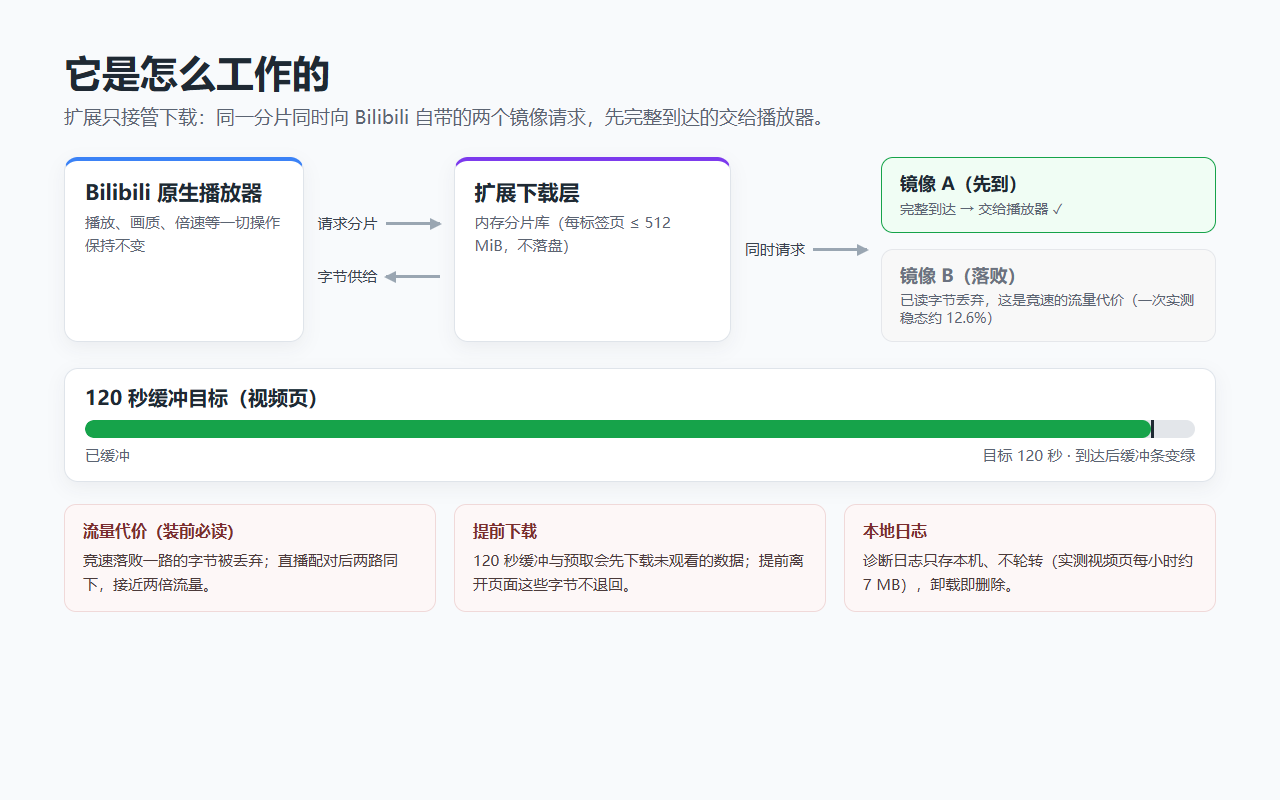
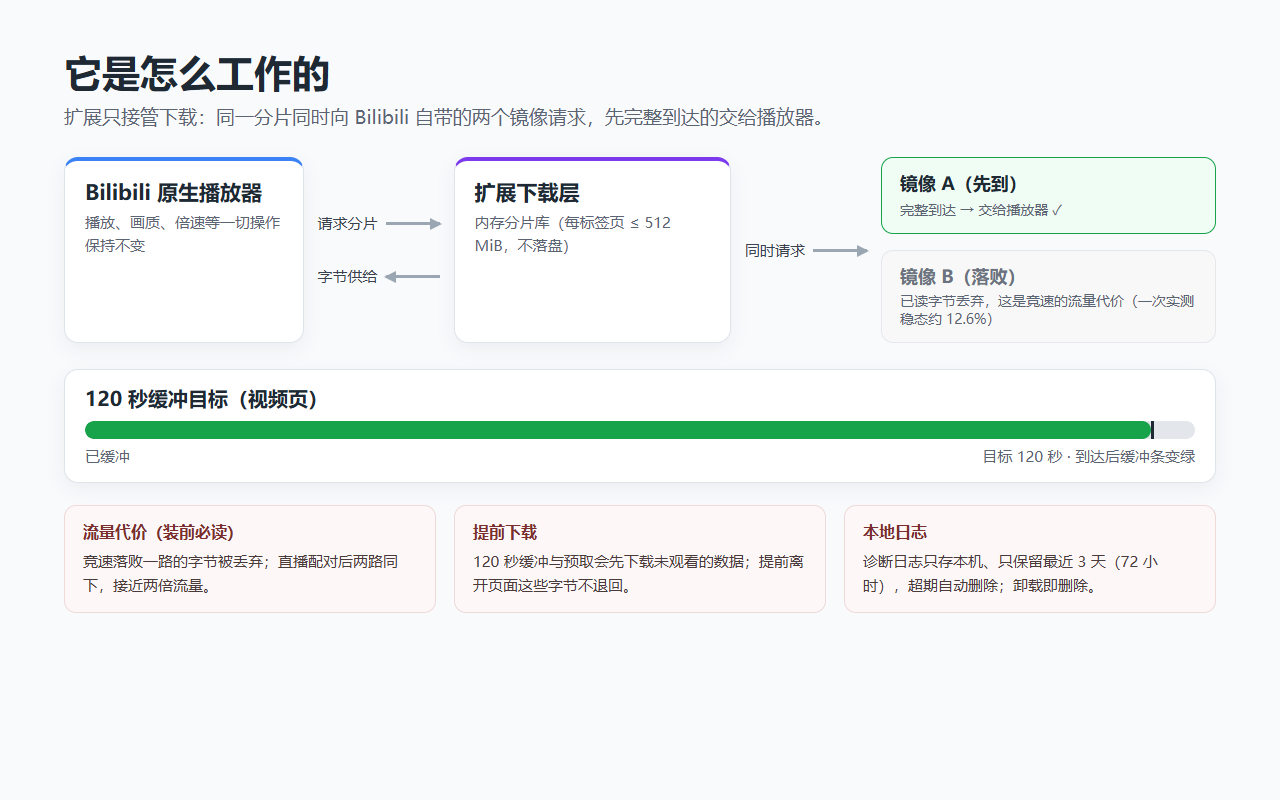
Rewrite the log-retention and switch documents for the store release
Why: GOAL.md owned the old never-delete log rule and every user-facing text
described a single video-only switch; both changed with the live switch and
the 3-day TTL.

- GOAL.md: the diagnostic-log section now states the 3-day retention, that
  deletion is by each record's own time only, and that pruning never blocks
  playback or log writes; field limits, console-first, export, and no-upload
  rules untouched
- README.md / README.en.md: disk cost bounded to the last 3 days, two
  switches in the popup and FAQ, download-layer bullet for the switch
  gating and the closed early-request window
- PRIVACY.md: retention 3 days then automatic deletion; two preference
  switches (both languages)
- store listings: switches paragraph, honest unlimitedStorage justification
  for a 3-day window, permission table rows
- store/README.md: resolved open items removed, review answer rewritten;
  popup screenshots 01/02 marked to recapture
- diagram.html: the local-log card states the 3-day retention; re-rendered
  at 1280x800 with the Windows Chrome headless CLI

diff --git a/store/images/src/diagram.html b/store/images/src/diagram.html
@@ -89,7 +89,7 @@
   <div class="costs">
     <div class="cost"><b>流量代价（装前必读）</b>竞速落败一路的字节被丢弃；直播配对后两路同下，接近两倍流量。</div>
     <div class="cost"><b>提前下载</b>120 秒缓冲与预取会先下载未观看的数据；提前离开页面这些字节不退回。</div>
-    <div class="cost"><b>本地日志</b>诊断日志只存本机、不轮转（实测视频页每小时约 7 MB），卸载即删除。</div>
+    <div class="cost"><b>本地日志</b>诊断日志只存本机、只保留最近 3 天（72 小时），超期自动删除；卸载即删除。</div>
   </div>
 </body>
 </html>

diff --git a/README.md b/README.md
@@ -40,14 +40,14 @@
 - **直播接近两倍流量**：配对后两路一直同时下载，流量接近单路的两倍。
 - **提前下载**：120 秒缓冲目标与预取会把还没看到的数据先下载；提前离开视频页，这些字节就白下了。
 - **内存**：每个标签页的媒体缓存最多约 512 MiB。
-- **磁盘**：本地诊断日志按设计不轮转、不设上限，随使用持续增长（开发者自用浏览器实测：视频页每打开 1 小时约 7 MB）；卸载扩展即全部删除。
-- **开关**：弹窗里的「视频增强」开关只作用于视频页（刷新后生效）；直播页的接管今天没有单独开关；不想承担直播的双倍流量，请在 chrome://extensions 停用本扩展。
+- **磁盘**：本地诊断日志只保留最近 3 天（72 小时），超期记录自动删除；实测视频页每打开 1 小时约产生 7 MB，因此占用大致以最近 3 天的用量为上界；卸载扩展即全部删除。
+- **开关**：弹窗里有两个开关，都在刷新页面后生效：「视频增强」只作用于视频页，「直播增强」只作用于直播页；不想承担直播的双倍流量，把「直播增强」关掉即可，视频增强不受影响。
 
 ![视频页弹窗截图](store/images/screenshot-01-popup-video.png)
 
 ## 弹窗（popup）怎么读
 
-弹窗只读、只显示观测事实，不影响播放、不上传：
+弹窗顶部有两个常驻开关（改动在刷新页面后生效）：「视频增强」控制视频页、「直播增强」控制直播页，各自独立。弹窗其余部分只读、只显示观测事实，不影响播放、不上传：
 
 - **缓冲**：一条缓冲条和「已缓冲 N 秒 / 目标 120 秒」。数值是覆盖当前播放点的连续可播放前向秒数，不是整段视频的缓冲；条到头（120 秒）变绿。
 - **120 秒申请状态**：向播放器申请 120 秒缓存的结果，分为已生效 / 等待生效 / 播放器不支持 / 申请失败四种。
@@ -86,7 +86,7 @@ Chrome 对后台标签页停止视频解码（background video track optimizatio
 说明带宽跟不上当前码率。扩展能做的是把带宽花在播放器真正需要的下载上，它不能让缓冲在慢线路上停止流失。
 
 **直播能单独关掉吗？**
-今天没有直播单独开关。不想承担直播双倍流量，请在 chrome://extensions 停用整个扩展。
+可以。弹窗里的「直播增强」开关只控制直播页（刷新后生效）：关闭后播放器按原样自己下载，扩展不接管、不竞速，视频页的增强不受影响。
 
 **会动我的播放操作吗？**
 不会。播放、暂停、拖动、倍速、画质、音量与轨道选择仍由你和播放器决定；弹窗只读。
@@ -109,7 +109,8 @@ Chrome 对后台标签页停止视频解码（background video track optimizatio
 ## 当前行为
 
 - `/video/*` 与 `/list/watchlater*` 使用同一视频增强。扩展拦截视频页媒体分片请求，命中时从内存回应，未命中时由扩展取回覆盖请求的完整分片、入库后再回应；分片只在实例内存中保存，离开视频路由或页面关闭即释放，不落盘；仍只对当前原生播放器尝试一次 120 秒稳定缓存目标，并只读显示覆盖当前播放点的 `video.buffered` 连续区间。不接管播放，不调用 `play()`/`pause()`，不写播放位置、倍速、画质、音量、静音、source，也不改变播放器的清晰度、seek、播放暂停或音视频轨决策。
-- popup 只显示视频增强开关和只读观测事实，不影响播放，不上传。
+- popup 常驻显示「视频增强」「直播增强」两个开关和只读观测事实，不影响播放，不上传。每个开关只作用于自己的页面类型：www.bilibili.com 读视频开关，live.bilibili.com 读直播开关。
+- 开发诊断日志只保留最近 3 天（72 小时）：超过 72 小时的事件按自身 `wallTime` 由后台清理删除；session 在自身 `startedAt` 超过 72 小时且名下已无剩余事件时一并删除。清理由 service worker 在启动时和日志批次写入后触发，用 `chrome.storage.session` 节流到至多每小时一次，分小批 readwrite 事务进行，不长期占用 events 存储；失败向 console 全量报告。导出在开始时固定 maxEventId 快照，范围内的记录被清理时分页原样跳过，导出照常完成（`src/diagnostics/prune.js`、`src/diagnostics/worker.js`、`src/diagnostics/export.js`）。
 
 ## 浏览器后台行为
 
@@ -123,6 +124,7 @@ Chrome 对后台标签页停止视频解码（background video track optimizatio
 
 ## 下载层
 
+- 接管受弹窗开关控制：www.bilibili.com 的分片接管只看「视频增强」，live.bilibili.com 的流接管只看「直播增强」，改动在刷新页面后生效。下载层默认让路：页面加载后到内容脚本读到开关值并写入接管标记之前，任何媒体请求都不接管；开关关闭时永远停在让路。让路中的媒体请求由播放器原生下载，不竞速、不缓存，也不产生 `bank.serve`/`bank.fetch.chunk` 记录；页面与开关状态照常进入诊断日志。因此开关开启时，加载最初几毫秒内的个别请求可能由播放器原生下载，这是关闭「先读开关再接管」窗口的代价。
 - 识别为媒体分片且带闭合单段 `Range` 的请求一律由下载层拦截。命中时从内存中的完整分片切片回应，未命中时由扩展用同一 URL 和凭据取回覆盖范围的完整分片，入库后再回应播放器的原始 Range；播放器不会为这类媒体分片另行发起网络请求。非媒体请求、缺少 `Range`、非闭合 `Range`、同步 XHR、直播页非 FLV 媒体请求（`live_non_flv`），以及下载层自身的 `internal_fallback`/`internal_error` 路径仍按原样放行，并由 `bank.serve` 记录 `pass` 和原因（包括 `range_missing`、`range_not_closed`、`sync_xhr`、`live_non_flv`）。`bank.serve` 的命中事件记录 `mirror` 与 `durationMs`，`bank.fetch.chunk` 记录 `mirror`。
 - 直播页（`live.bilibili.com`）只做下载接管与双路竞速，不做预拉、不设缓存目标。播放器在直播页发起的 `.flv` 长连接请求由扩展接管：首个此类请求到达时按需同步解析页面内嵌 `playurl_info`，并观察播放器自身的直播 `getRoomPlayInfo` 流量补充地址簿；只配同 cluster 主备两路（如 07 对 07b），跨 cluster 不配，地址不合成、不猜，URL 签名 `expires` 到期按地址失效处理。双腿 reader 并发累积，拼接窗口与前缀门窗口同按 `BANK_CONFIG.chunkBytes`（1 MiB）分窗：共同前缀比对一致才进入竞速交付，先达字节供给，败腿已读字节按既有浪费口径记录；竞速中重叠窗口持续比对，晚到不一致保领先腿、撤销另一腿；门期备腿停滞按单腿死处理，单腿死后余腿独跑、不重连。查无配对或前缀不一致时永久降级为播放器所名 URL 单腿接管（不制造播放故障）。双腿全灭、或签名到期且无新地址时显式失败，不静默退回原生。直播流事件按偏移分窗复用 `bank.fetch.chunk`（`chunkIndex` 为偏移对 `chunkBytes` 下取整，`slot` 标腿）与 `bank.serve`（`result`/`reason` 增 `live_stream`、`live_stream_unpaired`、`live_non_flv`），拼接裁决记 `live.stream.stitch`（`streamPath` 为去 query 的流路径、`bytesChecked` 为累计比对字节数、`mismatch`、`phase` 为 `prefix` 或 `stream`）。
 - 预取窗口按媒体资源分别锚定在仍未供数完成的播放器请求所需的最小块号；没有在途请求时使用最近一次播放器请求的起始块。窗口最多覆盖 48 个块，并发上限 4，只选择窗口内尚未入库且连续失败未达 3 次的前四个块。失败块下一轮自然重新进入窗口，达到上限后向需要它的播放器请求报告错误。
@@ -136,7 +138,7 @@ Chrome 对后台标签页停止视频解码（background video track optimizatio
 - popup 面向普通观众，只讲三件事：缓冲、下载线路、连接时间。视频页显示一条缓冲条和「已缓冲 N 秒 / 目标 120 秒」，数值是覆盖当前播放点的连续可播放前向秒数（`src/extension/popup.js:62-77`、`src/extension/popup-view.js`、`src/extension/readouts.js`）；下方一行报告向播放器申请 120 秒缓存的结果：已生效、等待生效、播放器不支持，或申请失败（`src/ui/panel.js`、`src/vod/controller.js` 的 `updateStatus`）。
 - popup 的「下载线路」卡片按镜像列出本次播放实际用到的每条 CDN 线路（通常两条），每条给一个健康状况词（正常、有停滞、有错误、尚无数据）和连接时间（「通常 X 毫秒 · 慢时 Y 毫秒」，来自 `logs:cdn-summary` 的每镜像 TTFB P50/P90）（`src/extension/popup-view.js`、`src/diagnostics/cdn.js`、`src/diagnostics/worker.js`）。线路名是镜像主机名的可读短名。
 - 直播页（live.bilibili.com）同一风格：同样的「下载线路」卡片，加一行直播接管状态（正在按两条线路竞速下载 / 单路接管（无可用备用线路）/ 接管请求失败 / 未接管（未发现 FLV 直播流）/ 等待直播数据），由内容侧折叠 `bank.serve` 事件得出；直播不设缓冲目标，popup 不显示缓冲条（`src/extension/popup-live.js`、`src/extension/popup-view.js`）。popup 的路由判定优先使用内容侧自报的 `routeKind`，因为 popup 没有 `tabs` 权限、读不到标签页地址（`src/diagnostics/client.js` 的 `getStatus`、`src/extension/readouts.js`）。
-- popup 面板只读，不影响播放、不上传；内容侧错误只在存在时以一句人话显示，非 Bilibili 标签页或没有内容脚本的标签页只显示一句友好提示（`src/extension/popup.js`、`src/extension/popup-view.js`）。popup 底部保留「打开开发日志」入口，日志页本身不变。
+- popup 面板只读，不影响播放、不上传；内容侧错误只在存在时以一句人话显示，非 Bilibili 标签页或没有内容脚本的标签页只显示一句友好提示（`src/extension/popup.js`、`src/extension/popup-view.js`）。popup 底部保留「打开开发日志」入口。日志页开头写明保留期限：日志只保留最近 3 天（72 小时），更早的记录自动删除。
 - 所有 `media.*` 事件都附带同一帧周期聚合的 `frameTiming`，包括 presentedTotal、maxFrameGapMs、processingMs、displayLead、mediaStep 与 append 相关指标（`src/diagnostics/media.js`、`src/diagnostics/privacy.js:195-212`）。这些细节只进开发日志；popup 不再展示 readyState、networkState、轨道 ranges、库存计数或持久化状态等开发读数。
 - 下载层库存只列出本次播放实际参与的分轨（`resourceState` 或 `chunks` 中出现过的资源），不展示地址簿里的所有表示（`src/bank/inventory.js:103-107`）；它作为 `bank.inventory` 诊断事件进入开发日志。
 - 日志页提供 CDN 竞速面板，按镜像统计竞速进入、胜出、TTFB P50/P90、停滞与交付字节，并给出配对覆盖率与浪费字节率（`src/diagnostics/logs.js`、`src/diagnostics/worker.js`）。

diff --git a/store/listing.en.md b/store/listing.en.md
@@ -34,11 +34,11 @@ draft is the ready-to-paste text for a future locale-specific listing once `_loc
   It uses no third-party addresses and never rewrites or substitutes Bilibili's addresses. It does not take over playback: play, pause, seeking, rate, quality, volume, and track choices stay with you and Bilibili's player.
 
   The cost — please weigh against your data plan
-  Video: the bytes the losing leg already downloaded are discarded — about 12.6% steady-state waste in one real run (it varies per session; the CDN racing panel on the extension's log page shows the session's own wasted-byte ratio). The 120-second buffer and prefetch download ahead, so leaving a video early downloads more unwatched data than the native player would. Live: once paired, both legs keep downloading at once — close to twice the stream's traffic. Memory: up to about 512 MiB of media cache per tab. Disk: the local diagnostic log is never rotated and grows with use (measured on the developer's own browser: about 7 MB per hour a video page is open); uninstalling deletes it.
-  Switch: the popup's "video enhancement" switch applies to video pages only (takes effect after a reload). Live takeover has no separate switch; to avoid the doubled live traffic, disable the extension in chrome://extensions.
+  Video: the bytes the losing leg already downloaded are discarded — about 12.6% steady-state waste in one real run (it varies per session; the CDN racing panel on the extension's log page shows the session's own wasted-byte ratio). The 120-second buffer and prefetch download ahead, so leaving a video early downloads more unwatched data than the native player would. Live: once paired, both legs keep downloading at once — close to twice the stream's traffic. Memory: up to about 512 MiB of media cache per tab. Disk: the local diagnostic log keeps only the last 3 days (72 hours); older records are deleted automatically (measured on the developer's own browser: about 7 MB per hour a video page is open, so use is roughly bounded by the last 3 days); uninstalling deletes everything.
+  Switches: the popup carries two switches, both effective after a reload. "Video enhancement" applies to video pages only and "live enhancement" to live pages. To avoid the doubled live traffic, turn off the live switch: the player then downloads natively, with no takeover and no racing on live pages, while video enhancement is unaffected.
 
   Data
-  Media segments stay in memory. The development diagnostic log lives only in the extension's local IndexedDB: it records the path of each Bilibili page, video identifiers, media URLs without parameters, timings and results of media requests, player events (play, pause, seeking, and so on), and buffer state. It stores no cookies, account data, titles, page text, chat, signed parameters, or audio/video bytes. No upload, no telemetry; export happens only when you pick a file. Permissions are only storage (one switch) and unlimitedStorage (an unrotated local log); no host_permissions. Fully open source: https://github.com/chnlich/smooth-bilibili-chrome-plugin
+  Media segments stay in memory. The development diagnostic log lives only in the extension's local IndexedDB: it records the path of each Bilibili page, video identifiers, media URLs without parameters, timings and results of media requests, player events (play, pause, seeking, and so on), and buffer state. It stores no cookies, account data, titles, page text, chat, signed parameters, or audio/video bytes. No upload, no telemetry; export happens only when you pick a file. Permissions are only storage (two switches: video enhancement and live enhancement) and unlimitedStorage (writing the local log inside its 3-day window); no host_permissions. Fully open source: https://github.com/chnlich/smooth-bilibili-chrome-plugin
   ```
 
 - **Category**: Entertainment. The old "Productivity" group was split up in the mid-2023 category
@@ -61,8 +61,8 @@ draft is the ready-to-paste text for a future locale-specific listing once `_loc
 
   | Dashboard item | Paste text |
   |---|---|
-  | `storage` | Stores exactly one user switch (video-page enhancement on/off) in chrome.storage.local so the popup preference survives restarts. Nothing else is stored. |
-  | `unlimitedStorage` | The development diagnostic log is append-only by design and never rotated or capped (see GOAL.md in the repository); it lives in the extension's own origin IndexedDB and grows with use (measured on the developer's own browser: about 7 MB per hour a video page is open). unlimitedStorage removes the browser's default storage quota so appends do not start failing at the quota. The log stays on the device; the user can view or export it on the log page, and uninstalling deletes everything. |
+  | `storage` | Stores exactly two user switches (video enhancement and live enhancement, each on/off) in chrome.storage.local so the popup preferences survive restarts. Nothing else is stored. |
+  | `unlimitedStorage` | The development diagnostic log lives in the extension's own origin IndexedDB and keeps only the last 3 days (72 hours); older records are deleted automatically, and within the window the log is append-only and not capped by count or size (see GOAL.md in the repository). Measured on the developer's own browser, an open video page adds about 7 MB per hour, so even a 3-day window can exceed the browser's default storage quota; unlimitedStorage removes that quota so writes inside the window do not start failing at it. The log stays on the device; the user can view or export it on the log page, and uninstalling deletes everything. |
   | Content script `https://www.bilibili.com/*` | Download takeover starts only on video routes (/video/* and /list/watchlater*): it intercepts the player's media segment requests, answers them from the in-memory cache or fetches them from the mirror addresses Bilibili supplied, and asks the player for a 120-second buffer. The match covers the whole site because the extension follows in-page route changes and must be in place at document_start; on other routes it intercepts nothing and only records the page path in the local diagnostic log. |
   | Content script `https://live.bilibili.com/*` | On live pages, takes over the player's FLV live stream and, after a prefix check, races the same-cluster primary/backup addresses Bilibili supplied (no prefetch, no buffer target). |
   | MAIN world injection (`world: "MAIN"`) | Three scripts must run in the page's own JavaScript realm: bank.js wraps the page's fetch/XMLHttpRequest to catch the player's media requests; source-buffer-shim.js observes the page's MediaSource/SourceBuffer appends and removals for local diagnostics; main-bridge.js calls the Bilibili player object's own buffer setting (setStableBufferTime). The MAIN world exposes no chrome.* APIs; the ISOLATED-world controller.js reads the preference and writes the log. |
@@ -115,7 +115,7 @@ credentials; Bilibili video and live play without logging in.
 | Asset | Spec | Status |
 |---|---|---|
 | Store icon | 128×128 PNG (96×96 artwork + 16px transparent padding) | ✅ Done: `assets/icon.svg` → `npm run icons` renders the four sizes (16/32/48 crop to the artwork so the toolbar icon stays legible), committed with the package; upload `src/extension/icons/icon128.png` |
-| Screenshots | 1280×800 (or 640×400), 1–5 images | ✅ Done: `store/images/screenshot-01-popup-video.png` (real popup over a video page), `screenshot-02-popup-live.png` (real popup over a live page), `screenshot-03-racing-diagram.png` (mechanism and traffic cost diagram). Composed by `store/images/src/compose.mjs` from a real run; the page background is blurred wholesale to hide third-party content |
+| Screenshots | 1280×800 (or 640×400), 1–5 images | `store/images/screenshot-01-popup-video.png` (real popup over a video page) and `screenshot-02-popup-live.png` (real popup over a live page) are **to recapture**: they show the old single-switch popup, and the popup now has two always-visible switches (to recapture: popup now has two switches). `screenshot-03-racing-diagram.png` (mechanism and traffic cost diagram) is updated for the 3-day log retention. Composed by `store/images/src/compose.mjs` from a real run; the page background is blurred wholesale to hide third-party content |
 | Small promo tile (required) | 440×280 PNG/JPEG | ✅ Done: `store/images/promo-tile-440x280.png` |
 | Marquee promo tile (optional, needed for featuring) | 1400×560 PNG/JPEG | ✅ Done: `store/images/marquee-1400x560.png` |
 | YouTube promo video | link | ⬜ none. The images page says only the icon, small promo tile, and a screenshot are mandatory; the listing page lists the video alongside the other assets. If the dashboard blocks submission without it, a later task produces one |

diff --git a/store/listing.zh-CN.md b/store/listing.zh-CN.md
@@ -25,11 +25,11 @@
   不使用第三方地址，不改写、不替换 Bilibili 的地址；不接管播放：播放、暂停、拖动、倍速、画质、音量与轨道选择仍由您和 Bilibili 播放器决定。
 
   【代价：请按流量套餐衡量】
-  视频：竞速中落败一路已下载的字节被丢弃，一次实测稳态浪费约 12.6%（每场播放不同，扩展日志页的 CDN 竞速面板显示当场实际浪费率）；120 秒缓冲与预取会提前下载，提前离开视频会比原生播放器多下载未观看的数据。直播：配对后两路一直同时下载，流量接近单路的两倍。内存：每个标签页的媒体缓存最多约 512 MiB。磁盘：本地诊断日志不轮转，随使用持续增长（开发者自用浏览器实测：视频页每打开 1 小时约 7 MB），卸载扩展即删除。
-  开关：弹窗里的“视频增强”开关只作用于视频页（刷新后生效）；直播页的接管没有单独开关，不想承担直播的双倍流量，请在 chrome://extensions 停用本扩展。
+  视频：竞速中落败一路已下载的字节被丢弃，一次实测稳态浪费约 12.6%（每场播放不同，扩展日志页的 CDN 竞速面板显示当场实际浪费率）；120 秒缓冲与预取会提前下载，提前离开视频会比原生播放器多下载未观看的数据。直播：配对后两路一直同时下载，流量接近单路的两倍。内存：每个标签页的媒体缓存最多约 512 MiB。磁盘：本地诊断日志只保留最近 3 天（72 小时），超期记录自动删除（开发者自用浏览器实测：视频页每打开 1 小时约 7 MB，占用大致以最近 3 天的用量为上界），卸载扩展即全部删除。
+  开关：弹窗里有两个开关，都在刷新页面后生效：“视频增强”只作用于视频页，“直播增强”只作用于直播页。不想承担直播的双倍流量，把“直播增强”关掉即可；关闭后播放器按原样自己下载，扩展在直播页不接管、不竞速，视频页的增强不受影响。
 
   【数据】
-  媒体分片只驻留内存。开发诊断日志只存扩展本地 IndexedDB：记录每个 Bilibili 页面的路径、视频编号、去掉参数的媒体地址、媒体请求耗时与结果、播放器事件（播放、暂停、拖动等）和缓冲状态；不记录 Cookie、账号、标题、页面文字、弹幕、签名参数或音视频字节。不上传、无遥测；导出仅在您主动选择文件时发生。权限只有 storage（记住一个开关）与 unlimitedStorage（保存不轮转的本地日志），没有 host_permissions。全部源码开源：https://github.com/chnlich/smooth-bilibili-chrome-plugin
+  媒体分片只驻留内存。开发诊断日志只存扩展本地 IndexedDB：记录每个 Bilibili 页面的路径、视频编号、去掉参数的媒体地址、媒体请求耗时与结果、播放器事件（播放、暂停、拖动等）和缓冲状态；不记录 Cookie、账号、标题、页面文字、弹幕、签名参数或音视频字节。不上传、无遥测；导出仅在您主动选择文件时发生。权限只有 storage（记住两个开关：视频增强与直播增强）与 unlimitedStorage（写入 3 天窗口内的本地诊断日志），没有 host_permissions。全部源码开源：https://github.com/chnlich/smooth-bilibili-chrome-plugin
   ```
 
 - **类别**：娱乐（Entertainment）。依据商店类目说明，2023 年起旧“Productivity”大类已拆分，Entertainment 是面向影视观看者的类目，与本扩展只服务 Bilibili 看视频/直播最贴近；备选“工具（Tools）”。
@@ -47,8 +47,8 @@
 
   | 后台列出的项 | 粘贴文本 |
   |---|---|
-  | `storage` | 仅在 chrome.storage.local 保存一个用户开关（视频页增强启用/关闭），用于记住用户在扩展弹窗中的选择；不保存任何其他数据。 |
-  | `unlimitedStorage` | 开发诊断日志按设计只追加、不轮转、不设上限（见仓库 GOAL.md），保存在扩展自身 origin 的 IndexedDB 中，随使用持续增长（开发者自用浏览器实测：视频页每打开 1 小时约 7 MB）。unlimitedStorage 移除浏览器默认存储配额，使日志能持续追加而不因配额写入失败。日志只在本机，用户可在日志页查看或导出，卸载扩展即全部删除。 |
+  | `storage` | 仅在 chrome.storage.local 保存两个用户开关（视频增强、直播增强各自启用/关闭），用于记住用户在扩展弹窗中的选择；不保存任何其他数据。 |
+  | `unlimitedStorage` | 开发诊断日志保存在扩展自身 origin 的 IndexedDB 中，只保留最近 3 天（72 小时），超期记录自动删除；窗口内的日志只追加、不设条数或容量上限（见仓库 GOAL.md）。实测视频页每打开 1 小时约产生 7 MB，3 天窗口的占用仍可能明显大于浏览器默认配额，unlimitedStorage 移除该配额，使窗口内的日志能连续写入而不因配额写入失败。日志只在本机，用户可在日志页查看或导出，卸载扩展即全部删除。 |
   | 内容脚本 `https://www.bilibili.com/*` | 下载接管只在视频路由（/video/* 与 /list/watchlater*）启动：拦截播放器的媒体分片请求，由内存缓存应答或代为向 Bilibili 提供的镜像地址取回，并向播放器请求 120 秒缓冲。匹配整个站点是因为扩展在页面内跟随路由变化，脚本须在页面开始时（document_start）就位；在其他路由上不拦截任何请求，只在本地诊断日志记录一条页面路径。 |
   | 内容脚本 `https://live.bilibili.com/*` | 在直播页接管播放器的 FLV 直播流，对 Bilibili 给出的同集群主备两路地址做前缀比对后并发竞速（不预取、不设缓冲目标）。 |
   | MAIN world 注入（`world: "MAIN"`） | 三个脚本必须运行在页面自身的 JavaScript 环境中：bank.js 包装页面的 fetch/XMLHttpRequest 才能接住播放器发出的媒体请求；source-buffer-shim.js 观察页面的 MediaSource/SourceBuffer 追加与移除，用于本地诊断；main-bridge.js 调用 Bilibili 播放器对象自带的缓冲设置（setStableBufferTime）。MAIN world 不提供 chrome.* API；读取偏好与写日志由 ISOLATED world 的 controller.js 完成。 |
@@ -83,7 +83,7 @@
 | 素材 | 规格 | 状态 |
 |---|---|---|
 | 商店图标 | 128×128 PNG（96×96 图形 + 16px 透明边） | ✅ 已完成：`assets/icon.svg` → `npm run icons` 生成四个尺寸（16/32/48 取图形区铺满画布以便工具栏辨认），已随包提交；后台上传 `src/extension/icons/icon128.png` |
-| 截图 | 1280×800（或 640×400），至少 1 张、最多 5 张 | ✅ 已完成：`store/images/screenshot-01-popup-video.png`（视频页弹窗实拍）、`screenshot-02-popup-live.png`（直播页弹窗实拍）、`screenshot-03-racing-diagram.png`（机制与流量代价示意图）。由 `store/images/src/compose.mjs` 从真实运行捕获合成，页面背景整体模糊以隐藏第三方内容 |
+| 截图 | 1280×800（或 640×400），至少 1 张、最多 5 张 | `store/images/screenshot-01-popup-video.png`（视频页弹窗实拍）与 `screenshot-02-popup-live.png`（直播页弹窗实拍）**待重摄**：拍的是旧的单开关弹窗，popup 现在有两个常驻开关（to recapture: popup now has two switches）；`screenshot-03-racing-diagram.png`（机制与流量代价示意图）已随 3 天日志保留规则更新。由 `store/images/src/compose.mjs` 从真实运行捕获合成，页面背景整体模糊以隐藏第三方内容 |
 | 小型宣传图（必需） | 440×280 PNG/JPEG | ✅ 已完成：`store/images/promo-tile-440x280.png` |
 | Marquee 宣传图（可选，入选推荐位需要） | 1400×560 PNG/JPEG | ✅ 已完成：`store/images/marquee-1400x560.png` |
 | YouTube 宣传视频 | 链接 | ⬜ 无。图片规范页写明只有图标、小型宣传图、截图是必需项；商店信息页的列表把视频与其他素材并列。若后台拦截提交，由后续任务补做 |

diff --git a/PRIVACY.md b/PRIVACY.md
@@ -14,8 +14,8 @@ Applies to: Bilibili 桌面网页抗卡 (Chrome extension, version 1.0.0).
 ### 处理哪些数据、放在哪里
 
 1. **媒体分片（音频/视频字节）**：只保存在页面内存中（每个标签页上限 512 MiB），离开视频路由（转到非视频页或换到另一个视频）或关闭页面时释放；直播流字节只在内存中转交播放器。媒体字节不写入磁盘，也不进入诊断日志。
-2. **开发诊断日志**：保存在扩展自身 origin 的本地 IndexedDB 数据库（`bilibili-development-logs`）中，只追加，不删除、不轮转、不设条数或容量上限。每打开一个 `www.bilibili.com` 或 `live.bilibili.com` 页面（包括非视频页）都会建立一条记录。日志字段只包括：时间戳、浏览器标签页编号、扩展版本与构建编号、页面地址中的站点与路径、视频编号（如 bvid）、分 P 编号、媒体编号、去除 query/hash 的媒体地址与镜像主机名、媒体请求的字节数/耗时/结果、播放器媒体事件（播放、暂停、拖动、倍速与音量变化等）及当时的媒体事实（buffered/seekable 区间、readyState、帧统计、清晰度等）、扩展动作和去除地址参数的错误文本。**不保存**：query/hash、签名 CDN 参数、Cookie、账号、标题、页面文字、弹幕/聊天、API body、音视频数据、帧或截图。无法安全读取的值记为“未提供”。
-3. **偏好设置**：`chrome.storage.local` 中只保存一个开关（视频增强启用或关闭）。
+2. **开发诊断日志**：保存在扩展自身 origin 的本地 IndexedDB 数据库（`bilibili-development-logs`）中，只保留最近 3 天（72 小时）：超过 72 小时的记录按其自身时间自动删除，保留窗口内只追加，不设条数或容量上限。每打开一个 `www.bilibili.com` 或 `live.bilibili.com` 页面（包括非视频页）都会建立一条记录。日志字段只包括：时间戳、浏览器标签页编号、扩展版本与构建编号、页面地址中的站点与路径、视频编号（如 bvid）、分 P 编号、媒体编号、去除 query/hash 的媒体地址与镜像主机名、媒体请求的字节数/耗时/结果、播放器媒体事件（播放、暂停、拖动、倍速与音量变化等）及当时的媒体事实（buffered/seekable 区间、readyState、帧统计、清晰度等）、扩展动作和去除地址参数的错误文本。**不保存**：query/hash、签名 CDN 参数、Cookie、账号、标题、页面文字、弹幕/聊天、API body、音视频数据、帧或截图。无法安全读取的值记为“未提供”。
+3. **偏好设置**：`chrome.storage.local` 中保存两个开关（视频增强、直播增强各自启用或关闭）。
 
 ### 数据不离开设备
 
@@ -27,7 +27,7 @@ Applies to: Bilibili 桌面网页抗卡 (Chrome extension, version 1.0.0).
 
 ### 保留期限
 
-诊断日志按设计不轮转、不删除，保留到用户卸载扩展为止，因此占用的磁盘空间随使用持续增长（开发者自用浏览器的一次实测：视频页每打开 1 小时约增加 7 MB）。卸载扩展会连同其 IndexedDB 与存储一起删除全部数据。日志不设“删除部分记录”的功能。
+诊断日志只保留最近 3 天（72 小时）：超过 72 小时的记录按其自身时间自动删除，无需用户操作；实测视频页每打开 1 小时约增加 7 MB，因此磁盘占用大致以最近 3 天的用量为上界。卸载扩展会连同其 IndexedDB 与存储一起删除全部数据。除此之外日志没有手动“删除部分记录”的功能。
 
 ### 第三方与广告
 
@@ -48,8 +48,8 @@ On Bilibili video pages and live pages, the extension takes over the player's me
 ### What data is handled, and where it stays
 
 1. **Media segments (audio/video bytes)**: held in page memory only (up to 512 MiB per tab), released when the video route is left (moving to a non-video page or to another video) or the page is closed; live stream bytes only pass through memory to the player. Media bytes are never written to disk and never written to the diagnostic log.
-2. **Development diagnostic log**: stored in the extension's own local IndexedDB database (`bilibili-development-logs`), append-only — never deleted, rotated, or capped by count or size. Every `www.bilibili.com` or `live.bilibili.com` page that is opened (non-video pages included) gets a record. Log fields are limited to: timestamps, browser tab number, extension version and build id, site and path of the page address, video identifiers (such as bvid), part number, media identifier, media URLs with query/hash removed and mirror host names, byte counts/timings/results of media requests, player media events (play, pause, seeking, rate and volume changes, and so on) with the media facts at that moment (buffered/seekable ranges, readyState, frame statistics, quality), extension actions, and error text with URL parameters removed. **Not stored**: query/hash, signed CDN parameters, cookies, account information, titles, page text, danmaku/chat, API bodies, audio/video data, frames, or screenshots. Values that cannot be read safely are recorded as “未提供” (not provided).
-3. **Preferences**: a single on/off switch (video enhancement enabled or disabled) in `chrome.storage.local`.
+2. **Development diagnostic log**: stored in the extension's own local IndexedDB database (`bilibili-development-logs`); it keeps only the last 3 days (72 hours). Records older than 72 hours are deleted automatically by their own timestamp; within that window the log is append-only and not capped by count or size. Every `www.bilibili.com` or `live.bilibili.com` page that is opened (non-video pages included) gets a record. Log fields are limited to: timestamps, browser tab number, extension version and build id, site and path of the page address, video identifiers (such as bvid), part number, media identifier, media URLs with query/hash removed and mirror host names, byte counts/timings/results of media requests, player media events (play, pause, seeking, rate and volume changes, and so on) with the media facts at that moment (buffered/seekable ranges, readyState, frame statistics, quality), extension actions, and error text with URL parameters removed. **Not stored**: query/hash, signed CDN parameters, cookies, account information, titles, page text, danmaku/chat, API bodies, audio/video data, frames, or screenshots. Values that cannot be read safely are recorded as “未提供” (not provided).
+3. **Preferences**: two on/off switches in `chrome.storage.local` (video enhancement and live enhancement, each enabled or disabled).
 
 ### Data never leaves the device
 
@@ -61,7 +61,7 @@ Users can inspect the log at any time on the extension's log page. Export happen
 
 ### Retention
 
-By design the diagnostic log is never rotated or deleted; it is kept until the user uninstalls the extension, so its disk use keeps growing with use (one measurement on the developer's own browser: about 7 MB per hour a video page is open). Uninstalling deletes the extension's IndexedDB and storage together with all data. There is no "delete part of the log" feature.
+The diagnostic log keeps only the last 3 days (72 hours): records older than 72 hours are deleted automatically by their own timestamp, with no action from the user. One measurement on the developer's own browser put growth at about 7 MB per hour a video page is open, so disk use is roughly bounded by the last 3 days of usage. Uninstalling deletes the extension's IndexedDB and storage together with all data. Apart from that automatic deletion there is no manual "delete part of the log" feature.
 
 ### Third parties and advertising
 

diff --git a/README.en.md b/README.en.md
@@ -42,14 +42,14 @@ Judge this against your data plan before installing:
 - **Live is close to double traffic**: while paired, both legs download continuously, so traffic approaches twice the single-leg amount.
 - **Downloaded ahead**: the 120-second buffer target and prefetch fetch data you have not watched yet; leave the video early and those bytes were spent for nothing.
 - **Memory**: the per-tab media cache holds up to about 512 MiB.
-- **Disk**: the local diagnostic log is never rotated and has no cap, so it keeps growing with use (measured on the developer's own browser: about 7 MB per hour a video page is open); uninstalling the extension deletes all of it.
-- **Switches**: the "video enhancement" toggle in the popup applies to video pages only (it takes effect after a page reload). The live takeover has no separate switch today — if you do not want live's double traffic, disable the extension in chrome://extensions.
+- **Disk**: the local diagnostic log keeps only the last 3 days (72 hours); older records are deleted automatically. Measured on the developer's own browser, an open video page adds about 7 MB per hour, so disk use is roughly bounded by the last 3 days of usage; uninstalling the extension deletes all of it.
+- **Switches**: the popup carries two switches, both effective after a page reload. "视频增强" (video enhancement) applies to video pages only and "直播增强" (live enhancement) to live pages only. If you do not want live's double traffic, turn off the live switch; video enhancement is unaffected.
 
 ![Popup over a video page](store/images/screenshot-01-popup-video.png)
 
 ## The popup
 
-The popup is read-only: it shows observed facts, affects no playback, and uploads nothing.
+The popup is read-only: it shows observed facts, affects no playback, and uploads nothing. Two always-visible switches sit at the top (effective after a page reload): "视频增强" for video pages and "直播增强" for live pages, each independent of the other.
 
 - **Buffer**: a bar and the line "已缓冲 N 秒 / 目标 120 秒" (N seconds buffered / 120-second target). The number is the continuous playable forward range covering the current playhead, not the whole video's buffer; the bar turns green when the 120-second target is reached.
 - **120-second request state**: the result of asking the player for the 120-second buffer — 已生效 (applied) / 等待生效 (waiting) / 播放器不支持 (player does not support it) / 申请失败 (request failed).
@@ -88,7 +88,7 @@ Chrome stops video decoding for background tabs (background video track optimiza
 That means the connection cannot keep up with the current bitrate. The extension spends the available bandwidth on what the player actually needs; it cannot keep a buffer from draining on a slow link.
 
 **Can live be switched off separately?**
-There is no separate live switch today. If you do not want live's double traffic, disable the whole extension in chrome://extensions.
+Yes. The "直播增强" (live enhancement) switch in the popup controls live pages only (it takes effect after a page reload): with it off, the player downloads natively — no takeover, no racing — and video enhancement is unaffected.
 
 **Does it touch playback controls?**
 No. Play, pause, seeking, speed, quality, volume, and tracks stay with you and the player; the popup is read-only.
@@ -114,6 +114,6 @@ The sections below describe how the implementation works. The full authoritative
 - **Video buffering.** The extension never builds a playback pipeline. It uses Bilibili's own player API to ask for a 120-second stable buffer, once per player or media item, and shows the player-reported forward range in the popup.
 - **Live takeover.** On live pages the extension answers the player's FLV stream requests directly. Mirror pairing comes from Bilibili's own live playback info (the page-embedded `playurl_info` and the player's `getRoomPlayInfo` traffic); only same-cluster primary/backup pairs are raced, byte windows are compared between legs (1 MiB windows), and any disagreement permanently degrades that stream to the single address the player named. Both legs dying, or an expired signature with no new address, fails explicitly — no silent native fallback.
 - **Bounds.** Segments live in a `Map` capped at 512 MiB per tab and are never written to disk; a fetch that receives no bytes for 10 s is cancelled and its partial chunk discarded; the prefetch window covers at most 48 chunks with 4 concurrent fetches and at most 3 consecutive failures per chunk.
-- **Diagnostics.** A structured local-only log (append-only, never rotated) records page routes, media facts, and download-layer events; the logs page includes a CDN racing panel with per-mirror racing, stall, latency, and waste statistics. The popup shows a deliberately small subset (buffer, download lines, connection times, live takeover state — including an explicit "not taken over" state when the player streams without FLV, instead of implying a takeover that never engaged).
+- **Diagnostics.** A structured local-only log records page routes, media facts, and download-layer events; it keeps the last 3 days (72 hours) and deletes older records automatically, by each record's own time. The logs page states this retention. An export fixes its maxEventId snapshot when it starts; rows pruned out of that range while the export runs are skipped by the pagination and the export still completes. The logs page also includes a CDN racing panel with per-mirror racing, stall, latency, and waste statistics. The popup shows a deliberately small subset (buffer, download lines, connection times, live takeover state — including an explicit "not taken over" state when the player streams without FLV, instead of implying a takeover that never engaged).
 
 Build, test, and verification commands are identical on any OS and are listed in the [build section of README.md](README.md#构建) and the [testing section of README.md](README.md#测试与验证) (both Chinese). The repo carries no device-specific paths.

diff --git a/store/README.md b/store/README.md
@@ -29,16 +29,16 @@ Chrome 的品牌规范对 Google 商标规定用“for …”（如 “for Googl
 2. 确认 PRIVACY.md 当前版本已在 main 分支（隐私政策 URL 用户可见；仓库是公开仓库，Issues 已开启）。
 3. `npm run package` 生成 zip。
 4. 后台 Items → New item，上传 zip。
-5. Store listing 标签页：按 listing.zh-CN.md 逐字段粘贴；上传商店图标与图片（图标、截图、小型宣传图、marquee 均已就绪，见 [images/](images/README.md)）。
+5. Store listing 标签页：按 listing.zh-CN.md 逐字段粘贴；上传商店图标与图片（图标、小型宣传图、marquee、机制示意图已就绪；弹窗截图待重摄，见 [images/](images/README.md)）。
 6. Privacy practices 标签页：单一用途、逐项权限用途说明、远程代码选“否”、数据使用勾选与认证、隐私政策 URL。
 7. Test instructions 标签页留空；Distribution 标签页：公开、全部地区。
 8. Submit for review。若审查要求补充源码，提供仓库 zip；发布 bundle 未压缩且带 source map。
 
-## unlimitedStorage 说明（诚实口径，不改保留策略）
+## unlimitedStorage 说明（诚实口径，按 3 天保留窗口写）
 
-开发诊断日志按 GOAL.md 设计**永不轮转**：不删除、不压缩、不摘要、不设条数或容量上限，只受物理磁盘、浏览器资料损坏、卸载和实际存储失败影响。因此日志在普通用户的磁盘上会无上限增长；`unlimitedStorage` 移除浏览器默认配额是这一设计的直接前提。后台答复与 PRIVACY.md 已如实写明“随使用持续增长、卸载删除、仅在本机”。
+开发诊断日志按 GOAL.md 设计**只保留最近 3 天（72 小时）**：超过 72 小时的记录按其自身时间自动删除；窗口内的日志只追加、不压缩、不摘要、不设条数或容量上限。`unlimitedStorage` 移除浏览器默认配额，使 3 天窗口内的日志能连续写入而不因配额失败；后台答复与 PRIVACY.md 已如实写明“只保留 3 天、超期自动删除、仅在本机、卸载删除”。
 
-**增长速度（实测，不是估算）**：对开发者日常浏览器 profile 的日志库做只读离线解码（按 smooth-bilibili-plugin 技能的离线解码配方，复制后解码全部 349 个 LevelDB 文件）：
+**增长速度（实测，不是估算；用于估算 3 天窗口的占用上界）**：对开发者日常浏览器 profile 的日志库做只读离线解码（按 smooth-bilibili-plugin 技能的离线解码配方，复制后解码全部 349 个 LevelDB 文件）：
 
 | 量 | 值 |
 |---|---|
@@ -51,15 +51,14 @@ Chrome 的品牌规范对 Google 商标规定用“for …”（如 “for Googl
 
 按事件 JSON 体积拆分：`media.append` 35%（每秒约 4.1 条，每条约 450 B）、`media.sample` 34%（每条约 1.8 KB：完整 buffered/seekable/分轨区间加 `frameTiming`）、`bank.serve` 13%（每秒约 1.9 条）、`media.progress` 7%、`bank.inventory` 7%。每条 `media.*` 事件都附带同样的媒体快照，所以单条就在 1.8 KB 左右。
 
-**留给用户的生产决定**：
+**保留策略（用户已决定）**：
 
-- 保持无上限保留（现设计，诊断价值最高），还是正式版引入轮转/上限（会改 GOAL.md 的行为，超出本任务）。按实测速度，每天看 2 小时的普通用户一年约 5 GB；日志对普通用户没有直接用途。
-- 审查风险：`unlimitedStorage` 不触发安装警告，但审查员可能追问一个“减少卡顿”的扩展为何需要无限存储；答复口径就是上面的“日志不轮转设计 + 只在本机 + 卸载删除”。日志不上传，审查员看不到日志内容；若审查认为与单一用途不符，要么改保留策略，要么去掉该权限。
+- 正式版采用 3 天（72 小时）保留：超期记录自动删除，不再无限增长。按实测速度，日志占用大致以最近 3 天的用量为上界（重度使用约数百 MB 量级）。该决定已落进 GOAL.md、PRIVACY.md 与两份商店草稿。
+- 审查风险：`unlimitedStorage` 不触发安装警告，但审查员可能追问一个“减少卡顿”的扩展为何需要无限存储；答复口径就是上面的“只保留 3 天、超期自动删除 + 只在本机 + 卸载删除”。日志不上传，审查员看不到日志内容；若审查仍认为与单一用途不符，再评估去掉该权限。
 
 ## 待用户决定的其他事项
 
-- **直播没有开关**：popup 的“视频增强”开关只在 www.bilibili.com 下发（`src/extension/controller.js` 的 `start()`），下载层默认启用，所以直播接管（配对时流量接近两倍）没有单独开关，只能在 chrome://extensions 停用整个扩展。草稿已如实写明；是否给直播加开关是产品决定。
 - 数据使用勾选：草稿建议勾选「网页历史」「用户活动」「网站内容」三项。「用户活动」的商店定义第一项就是“网络监控”，日志记录播放器每个媒体请求的耗时与结果、以及播放/暂停/拖动/倍速/音量事件，不勾会与实际行为矛盾（计划政策：隐私字段与扩展行为矛盾可被下架）。「网站内容」若只按“持久化才算收集”理解可不勾，但须与 PRIVACY.md 一致。
 - 类别：建议 Entertainment（旧 Productivity 大类 2023 年已拆分），备选 Tools。
 - 名称：见上表。
-- 图片：商店图标已完成；截图、440×280 小宣传图、1400×560 Marquee 待 popup 重设计后的任务完成。
+- 图片：商店图标已完成；440×280 小宣传图、1400×560 Marquee 已完成。**弹窗截图待重摄**：screenshot-01-popup-video.png 与 screenshot-02-popup-live.png 拍摄的是旧的单开关弹窗，popup 现在有两个常驻开关，需在 popup 改名任务中重摄（to recapture: popup now has two switches）；机制示意图 screenshot-03-racing-diagram.png 已随 3 天保留规则更新。

diff --git a/GOAL.md b/GOAL.md
@@ -11,7 +11,7 @@
 
 ## 开发诊断日志
 
-开发阶段每次刷新、进入新视频、新分 P 或新媒体条目都建立独立记录；每个视频页面都记录完整结构化日志。诊断初始化早于功能开关和增强控制器，因此功能关闭、无关支持路由、30 秒没有视频、启动错误、页面内切换以及播放器或媒体内容更换也会记录。日志只在扩展自己的本地数据库中追加保存：应用不删除、压缩、摘要、截断、合并、轮转或回收，不设置天数、记录数量、单次记录或总容量上限；只受物理磁盘、浏览器资料损坏、卸载和实际存储失败影响。
+开发阶段每次刷新、进入新视频、新分 P 或新媒体条目都建立独立记录；每个视频页面都记录完整结构化日志。诊断初始化早于功能开关和增强控制器，因此功能关闭、无关支持路由、30 秒没有视频、启动错误、页面内切换以及播放器或媒体内容更换也会记录。日志只保存在扩展自己的本地数据库中，且只保留最近 3 天（72 小时）：超过 72 小时的事件按其自身记录的时间自动删除；一个记录（session）在其自身超过 72 小时且名下已无剩余事件时一并删除。删除只看记录自身的时间，不看条数或容量。72 小时内的记录仍只追加保存，不做压缩、摘要、截断、合并或轮转，不设置记录数量、单次记录或总容量上限。清理在扩展后台分小批进行，不等待、不阻塞播放与日志写入，失败照常全量报告。保留窗口内的日志只受物理磁盘、浏览器资料损坏、卸载和实际存储失败影响。
 
 每条日志先同步显示在开发者控制台，再异步保存；只有本地数据库写入完成后才标记为已保存，存储失败会明确标记并继续显示在控制台，播放永远不等待日志。日志页可以选择当前记录或全部记录，先固定导出范围，再由用户选择文件、分页逐行导出 JSONL；导出开始后的新增日志继续保存但不进入本次文件。没有上传、遥测或外部日志端点。
 

diff --git a/store/images/README.md b/store/images/README.md
@@ -5,8 +5,8 @@
 
 | 文件 | 尺寸 | 内容 |
 |---|---|---|
-| `screenshot-01-popup-video.png` | 1280×800 | 视频页上的真实弹窗（背景为真实页面截图，整体模糊以隐藏第三方内容） |
-| `screenshot-02-popup-live.png` | 1280×800 | 直播页上的真实弹窗（同上） |
+| `screenshot-01-popup-video.png` | 1280×800 | 视频页上的真实弹窗（背景为真实页面截图，整体模糊以隐藏第三方内容）。**待重摄**：拍的是旧的单开关弹窗，popup 现在有两个常驻开关（to recapture: popup now has two switches） |
+| `screenshot-02-popup-live.png` | 1280×800 | 直播页上的真实弹窗（同上）。**待重摄**：同上（to recapture: popup now has two switches） |
 | `screenshot-03-racing-diagram.png` | 1280×800 | 机制示意图：双镜像竞速、120 秒缓冲、流量代价 |
 | `promo-tile-440x280.png` | 440×280 | 小型宣传图（必需项） |
 | `marquee-1400x560.png` | 1400×560 | Marquee 宣传图（可选项） |
